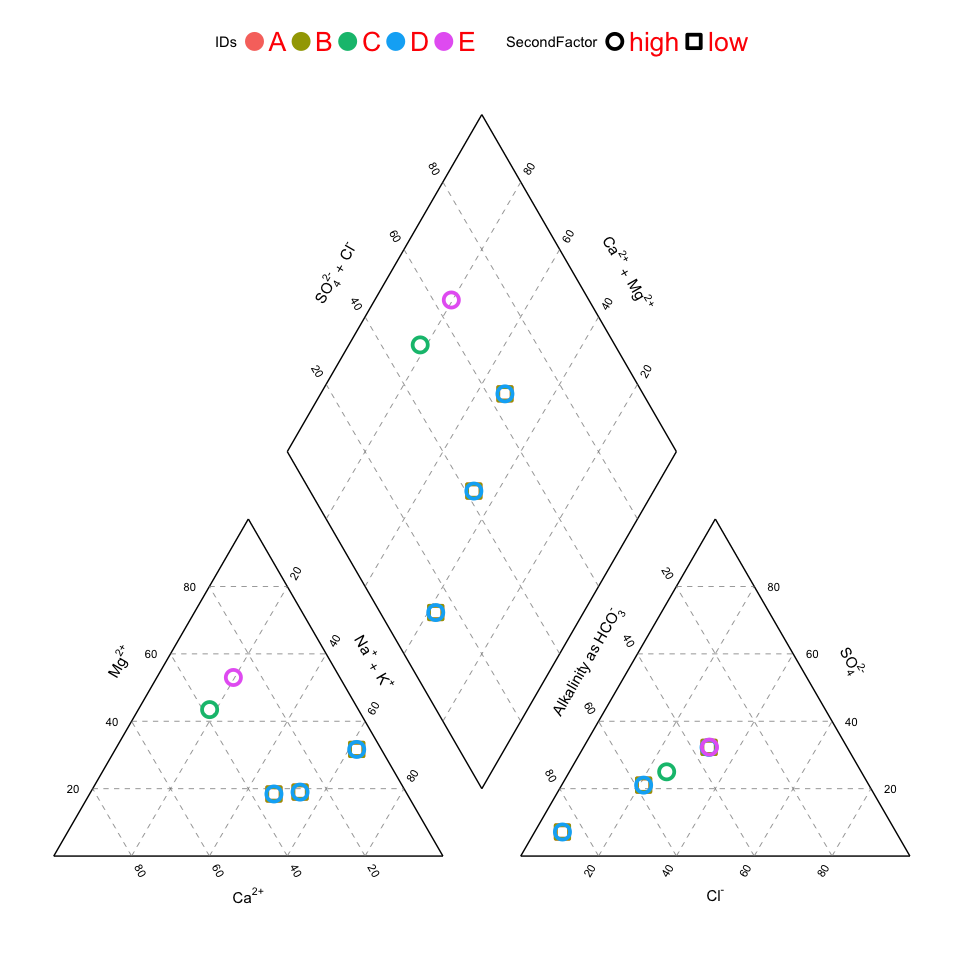
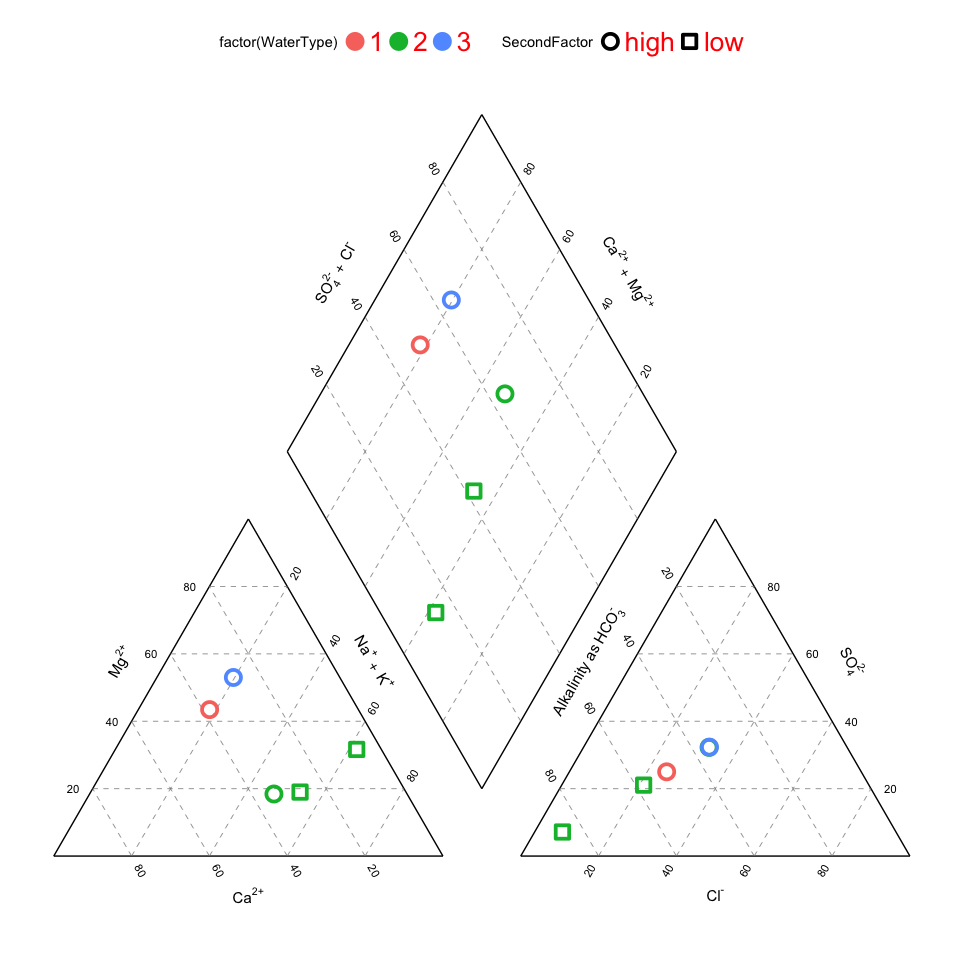
fixed the fix

diff --git a/README.md b/README.md
@@ -96,49 +96,31 @@ piper_data <- transform_piper_data(Ca   = data$Ca,
                                    Mg   = data$Mg,
                                    Cl   = data$Cl,
                                    SO4  = data$SO4,
-                                   name = data$WaterType)
-piper_data <- merge(piper_data,
-                    data[, c("WaterType", "SecondFactor", "IDs")],
-                    by.y = "WaterType",
-                    by.x = "observation")
+                                   name = data$IDs)
+ piper_data <- merge(piper_data,
+                     data[, c("WaterType", "SecondFactor", "IDs")],
+                     by.y = "IDs",
+                     by.x = "observation")
 
 piper_data
 ```
 
-    ##    observation         x          y SecondFactor IDs
-    ## 1            1  94.16230 131.355440         high   C
-    ## 2            1  40.05236  37.633764         high   C
-    ## 3            1 157.50000  21.650750         high   C
-    ## 4            2  63.29114  16.443608          low   A
-    ## 5            2  63.29114  16.443608          low   B
-    ## 6            2  63.29114  16.443608         high   D
-    ## 7            2  77.84810  27.406013          low   A
-    ## 8            2  77.84810  27.406013          low   B
-    ## 9            2  77.84810  27.406013         high   D
-    ## 10           2 130.71429   6.185929          low   A
-    ## 11           2 130.71429   6.185929          low   B
-    ## 12           2 130.71429   6.185929         high   D
-    ## 13           2  56.57895  15.953184          low   A
-    ## 14           2  56.57895  15.953184          low   B
-    ## 15           2  56.57895  15.953184         high   D
-    ## 16           2 168.38710  27.936452          low   A
-    ## 17           2 168.38710  27.936452          low   B
-    ## 18           2 168.38710  27.936452         high   D
-    ## 19           2 151.57895  18.232211          low   A
-    ## 20           2 151.57895  18.232211          low   B
-    ## 21           2 151.57895  18.232211         high   D
-    ## 22           2 107.95137  93.797800          low   A
-    ## 23           2 107.95137  93.797800          low   B
-    ## 24           2 107.95137  93.797800         high   D
-    ## 25           2  98.15552  62.579672          low   A
-    ## 26           2  98.15552  62.579672          low   B
-    ## 27           2  98.15552  62.579672         high   D
-    ## 28           2 115.94228 118.774030          low   A
-    ## 29           2 115.94228 118.774030          low   B
-    ## 30           2 115.94228 118.774030         high   D
-    ## 31           3  46.15385  45.892188         high   E
-    ## 32           3 168.49624  27.999466         high   E
-    ## 33           3 102.15989 142.898011         high   E
+    ##    observation         x          y WaterType SecondFactor
+    ## 1            A  63.29114  16.443608         2          low
+    ## 2            A 151.57895  18.232211         2          low
+    ## 3            A 107.95137  93.797800         2          low
+    ## 4            B  98.15552  62.579672         2          low
+    ## 5            B  77.84810  27.406013         2          low
+    ## 6            B 130.71429   6.185929         2          low
+    ## 7            C  94.16230 131.355440         1         high
+    ## 8            C 157.50000  21.650750         1         high
+    ## 9            C  40.05236  37.633764         1         high
+    ## 10           D 168.38710  27.936452         2         high
+    ## 11           D 115.94228 118.774030         2         high
+    ## 12           D  56.57895  15.953184         2         high
+    ## 13           E  46.15385  45.892188         3         high
+    ## 14           E 168.49624  27.999466         3         high
+    ## 15           E 102.15989 142.898011         3         high
 
 Plot
 ----
@@ -179,7 +161,7 @@ Grouping by multiple factors:
 
 ``` r
 ggplot_piper() + geom_point(aes(x,y,
-                                color = IDs,
+                                color = factor(WaterType),
                                 shape = SecondFactor),
                             size = 4, stroke = 2, data = piper_data) +
   scale_shape_manual(values = c(21:26)) +
@@ -193,11 +175,13 @@ Advanced example:
 ``` r
 ggplot_piper() + 
   geom_point(aes(x, y,
-                 colour = factor(observation),
-                 shape  = factor(observation)), 
+                 colour = factor(WaterType),
+                 shape  = factor(WaterType)), 
              size=4, data = piper_data) + 
-  scale_colour_manual(name="legend name must be the same", values=c("#999999", "#E69F00", "#56B4E9"), labels=c("Control", "Treatment 1", "Treatment 2")) +
-  scale_shape_manual(name="legend name must be the same", values=c(1,2,3), labels=c("Control", "Treatment 1", "Treatment 2")) +
+  scale_colour_manual(name="legend name must be the same",
+                      values=c("#999999", "#E69F00", "#56B4E9"),
+                      labels=c("Control", "Treatment 1", "Treatment 2")) +
+  scale_shape_manual(name="legend name must be the same", values=c(1, 2, 3, 4 ,5), labels=c("Control", "Treatment 1", "Treatment 2")) +
   theme(legend.position = c(.8, .9))
 ```
 
